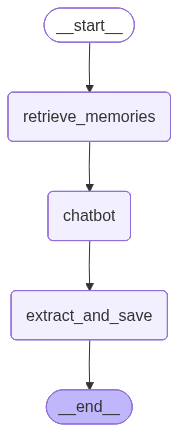
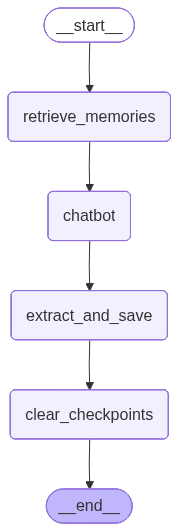
feat: add prompt

Changed region(s): [[0.0281, 0.0, 0.9831, 0.9931], [0.9551, 0.1806, 0.9831, 0.2106]]

diff --git a/ai/graph.py b/ai/graph.py
@@ -2,7 +2,7 @@ from langgraph.graph import END, START, StateGraph
 from langsmith import traceable
 
 from .logger import get_logger
-from .nodes import chatbot, extract_and_save, retrieve_memories
+from .nodes import chatbot, clear_checkpoints, extract_and_save, retrieve_memories
 from .state import ChatBotState
 from .store import checkpointer, store_manager
 
@@ -13,6 +13,7 @@ class GraphNodes:
     EXTRACT_AND_SAVE = "extract_and_save"
     CHATBOT = "chatbot"
     RETRIEVE_MEMORIES = "retrieve_memories"
+    CLEAR_CHECKPOINTS = "clear_checkpoints"
 
 
 def _build_graph():
@@ -22,11 +23,13 @@ def _build_graph():
     builder.add_node(GraphNodes.EXTRACT_AND_SAVE, extract_and_save)
     builder.add_node(GraphNodes.CHATBOT, chatbot)
     builder.add_node(GraphNodes.RETRIEVE_MEMORIES, retrieve_memories)
+    builder.add_node(GraphNodes.CLEAR_CHECKPOINTS, clear_checkpoints)
 
     builder.add_edge(START, GraphNodes.RETRIEVE_MEMORIES)
     builder.add_edge(GraphNodes.RETRIEVE_MEMORIES, GraphNodes.CHATBOT)
     builder.add_edge(GraphNodes.CHATBOT, GraphNodes.EXTRACT_AND_SAVE)
-    builder.add_edge(GraphNodes.EXTRACT_AND_SAVE, END)
+    builder.add_edge(GraphNodes.EXTRACT_AND_SAVE, GraphNodes.CLEAR_CHECKPOINTS)
+    builder.add_edge(GraphNodes.CLEAR_CHECKPOINTS, END)
 
     return builder.compile(checkpointer=checkpointer, store=store_manager._store)
 

diff --git a/ai/nodes/clear_checkpoints.py b/ai/nodes/clear_checkpoints.py
@@ -1,0 +1,29 @@
+from langchain_core.runnables import RunnableConfig
+from psycopg import connect
+from psycopg.rows import dict_row
+
+from ..config import get_database_url
+from ..logger import get_logger
+from ..state import ChatBotState
+
+logger = get_logger(__name__)
+
+
+def clear_checkpoints(state: ChatBotState, config: RunnableConfig):
+    thread_id = config["configurable"]["thread_id"]
+    db_url = get_database_url()
+
+    if not db_url:
+        return state
+
+    with connect(db_url, autocommit=True, row_factory=dict_row) as conn:
+        with conn.cursor() as cur:
+            cur.execute(
+                "DELETE FROM checkpoint_writes WHERE thread_id = %s", (thread_id,)
+            )
+            cur.execute(
+                "DELETE FROM checkpoints WHERE thread_id = %s", (thread_id,)
+            )
+
+    logger.info("Cleared checkpoints for thread_id=%s", thread_id)
+    return state

diff --git a/ai/nodes/__init__.py b/ai/nodes/__init__.py
@@ -1,9 +1,11 @@
 from .chatbot import chatbot
+from .clear_checkpoints import clear_checkpoints
 from .extract_and_save import extract_and_save
 from .retrieve_memories import retrieve_memories
 
 __all__ = [
-    "extract_and_save",
     "chatbot",
+    "clear_checkpoints",
+    "extract_and_save",
     "retrieve_memories",
 ]

diff --git a/README.md b/README.md
@@ -9,8 +9,9 @@ Each conversation runs through a three-node graph:
 ![Graph](graph.png)
 
 1. **retrieve_memories** — searches the store for previously saved facts about the user using semantic similarity
-2. **chatbot** — calls GPT-4o with the retrieved memory context to produce a personalized response; message history is trimmed to 100k tokens before sending to avoid context overflow
+2. **chatbot** — calls GPT-4o with the retrieved memory context to produce a personalized response
 3. **extract_and_save** — uses structured output to extract new facts from the last exchange and saves them to the store
+4. **clear_checkpoints** — deletes the checkpoint rows for the current thread after a successful run, keeping the checkpointer table lean
 
 Facts are stored under a per-user namespace `(user_id, "memories")` and embedded with `text-embedding-3-small` for semantic retrieval. Before saving, each new fact is checked against existing memories using a similarity threshold (`0.90`) to avoid storing duplicates.
 
@@ -29,9 +30,11 @@ ai/
   logger.py           # Shared get_logger() factory
   nodes/
     retrieve_memories.py  # Searches store for user facts via StoreManager
-    chatbot.py            # Invokes LLM with memory context and trimmed message history
+    chatbot.py            # Invokes LLM with memory context
     extract_and_save.py   # Extracts and stores new facts via StoreManager
+    clear_checkpoints.py  # Deletes checkpoint rows for the thread after each successful run
 main.py               # Entry point
+visualize_graph.py    # Renders the graph as graph.png
 ```
 
 ## Setup
